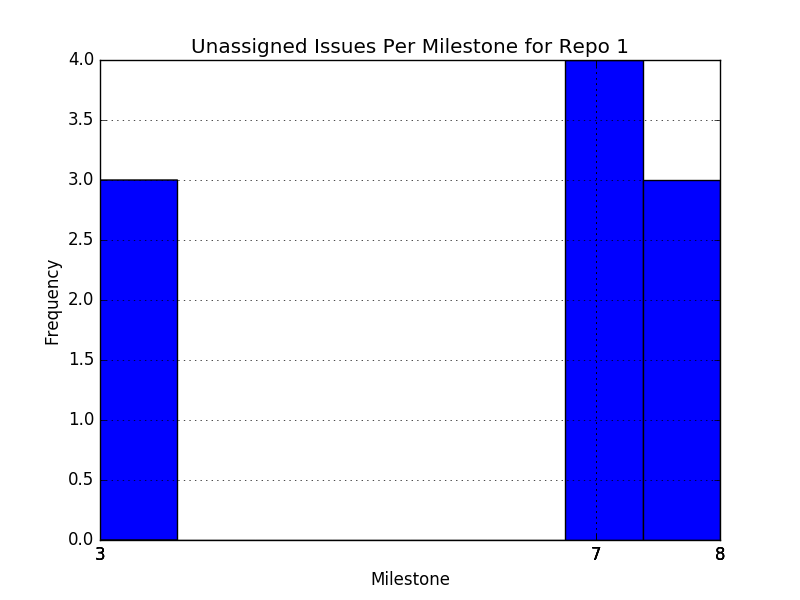
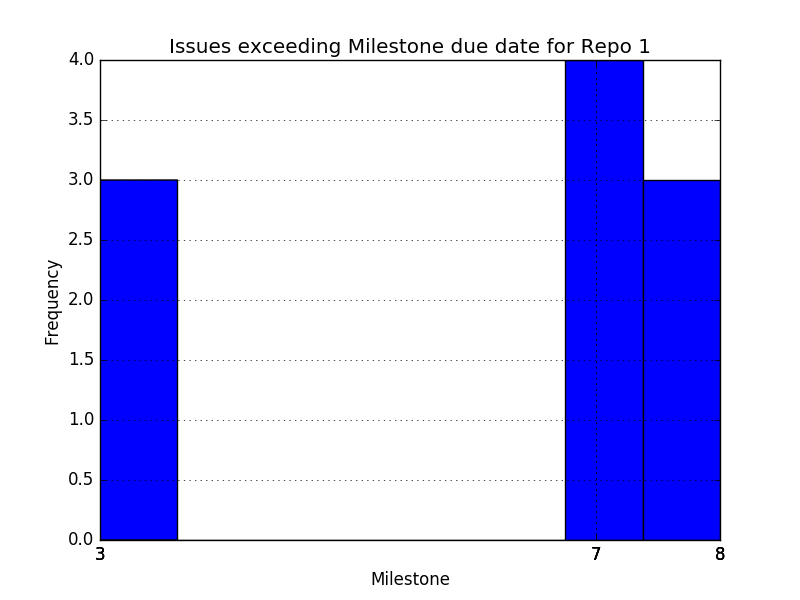
Bad smell correction

Changed region(s): [[0.2188, 0.06, 0.8125, 0.09]]

diff --git a/issue_exceeding_milestone_due_date/issue_exceeding_milestone_due_date_plotter.py b/issue_exceeding_milestone_due_date/issue_exceeding_milestone_due_date_plotter.py
@@ -12,7 +12,7 @@ def generate_feature_graph_for_repo(repo_count):
 	plt.xticks(data['Milestone_No'])
 	plt.ylabel('Frequency')
 	plt.xlabel('Milestone')
-	plt.title('Unassigned Issues Per Milestone for Repo ' + str(repo_count))
+	plt.title('Issues exceeding Milestone due date for Repo ' + str(repo_count))
 
 	plt.savefig('./results/repo_'+str(repo_count)+'_issues_exceeding_milestone_due_date_graph.png')
 	plt.close()
